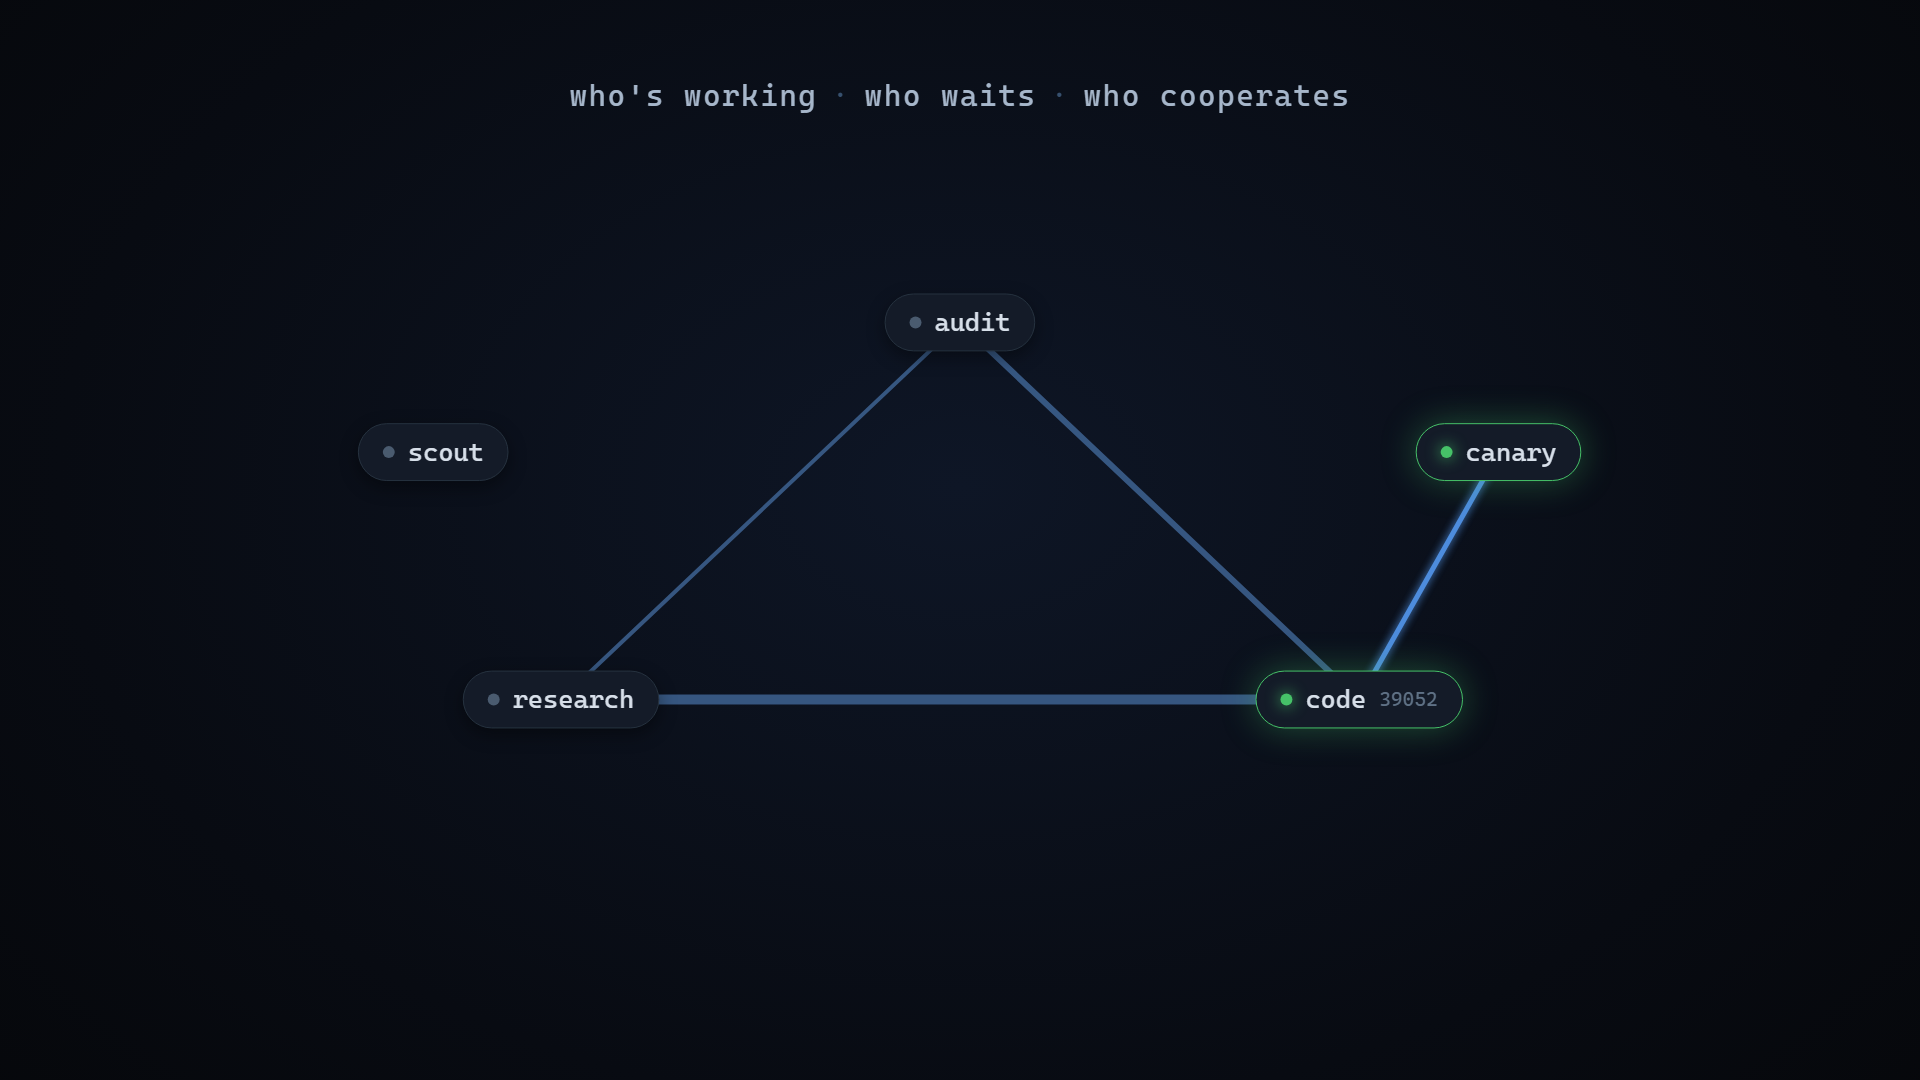
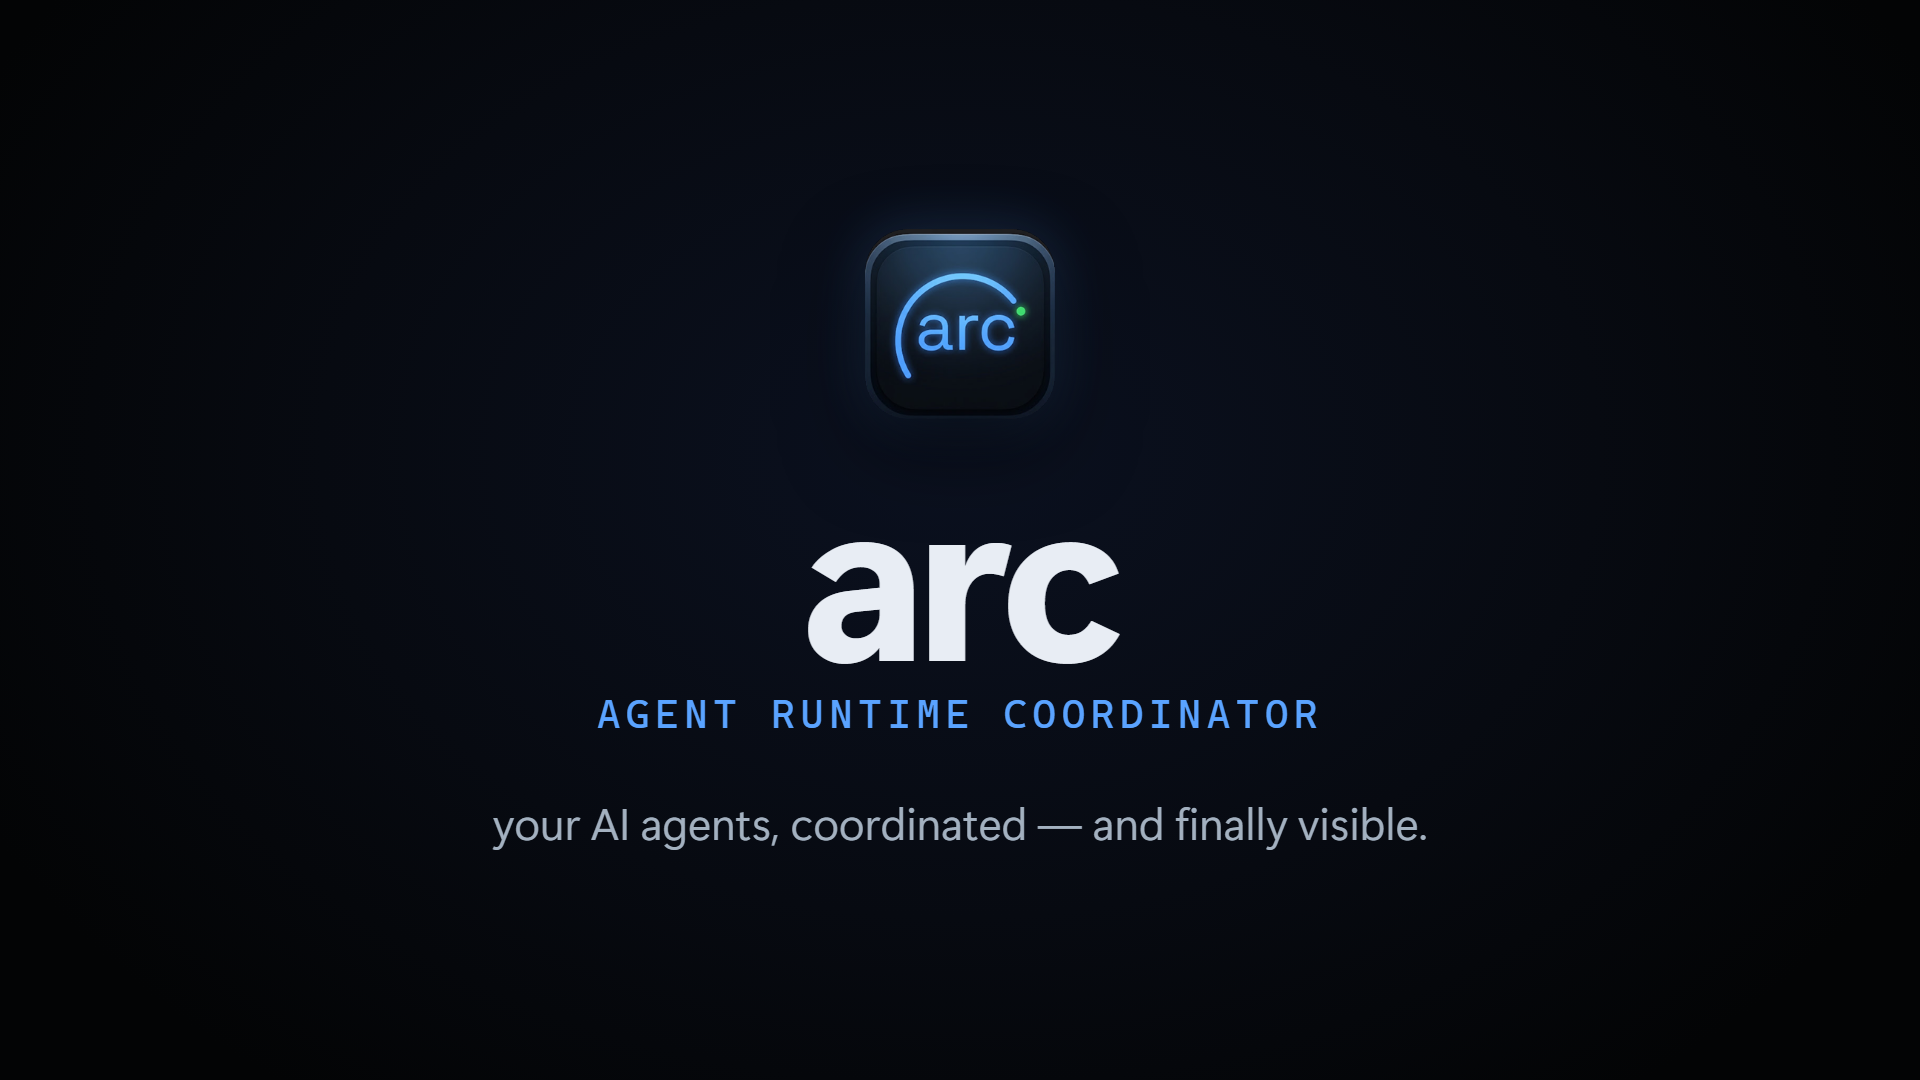
README: wordmark thumbnail that plays the launch film
GitHub's markup CSP won't embed a self-hosted <video> (only user-attachments URLs
from a drag-drop upload get an inline player), so the raw-URL <video> rendered blank.
Use the wordmark end-frame as a clickable poster that opens GitHub's own mp4 player
(plays with sound) — reliable, and honors the requested thumbnail.

Claude-Session: https://claude.ai/code/session_017fz7PLdD9tGVnAuK2HPdz3

diff --git a/README.md b/README.md
@@ -1,10 +1,12 @@
 # arc
 
 <p align="center">
-  <video src="https://github.com/Veneto723/arc/raw/main/docs/arc-promo.mp4" poster="https://github.com/Veneto723/arc/raw/main/docs/arc-promo-poster.png" controls autoplay muted loop playsinline width="880"></video>
+  <a href="https://github.com/Veneto723/arc/blob/main/docs/arc-promo.mp4">
+    <img src="docs/arc-promo-poster.png" width="880" alt="arc — the Agent Runtime Coordinator · click to play the 34-second launch film">
+  </a>
 </p>
 
-<p align="center"><em>the Agent Runtime Coordinator — <a href="https://github.com/Veneto723/arc/raw/main/docs/arc-promo.mp4">▶ watch the 34-second launch film</a> (turn sound on)</em></p>
+<p align="center"><em>the Agent Runtime Coordinator — <a href="https://github.com/Veneto723/arc/blob/main/docs/arc-promo.mp4">▶ play the 34-second launch film</a> (sound on)</em></p>
 
 **A Claude-first, native-stdio wrapper for [Claude Code](https://claude.com/claude-code). Windows.**
 Three things the built-in CLI can't do: